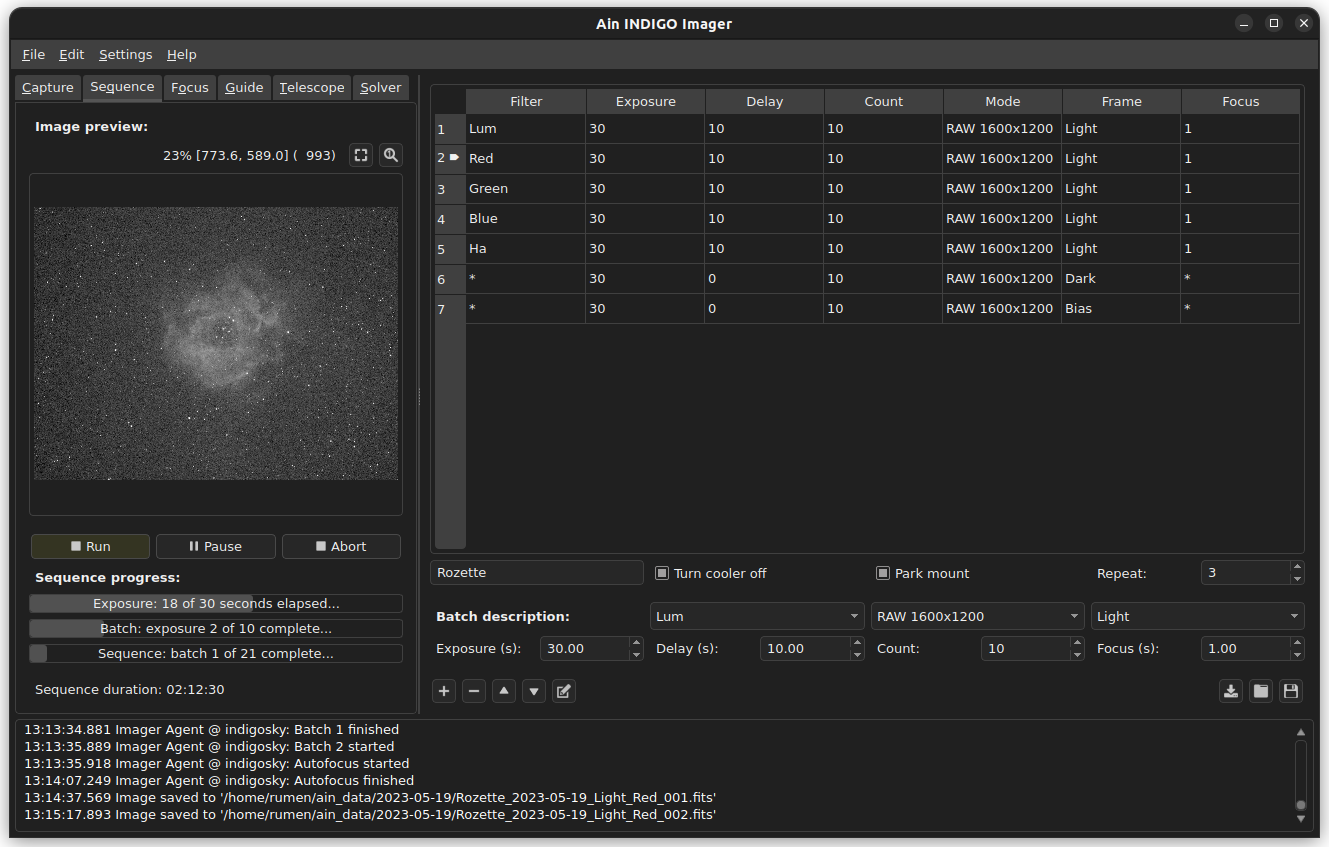
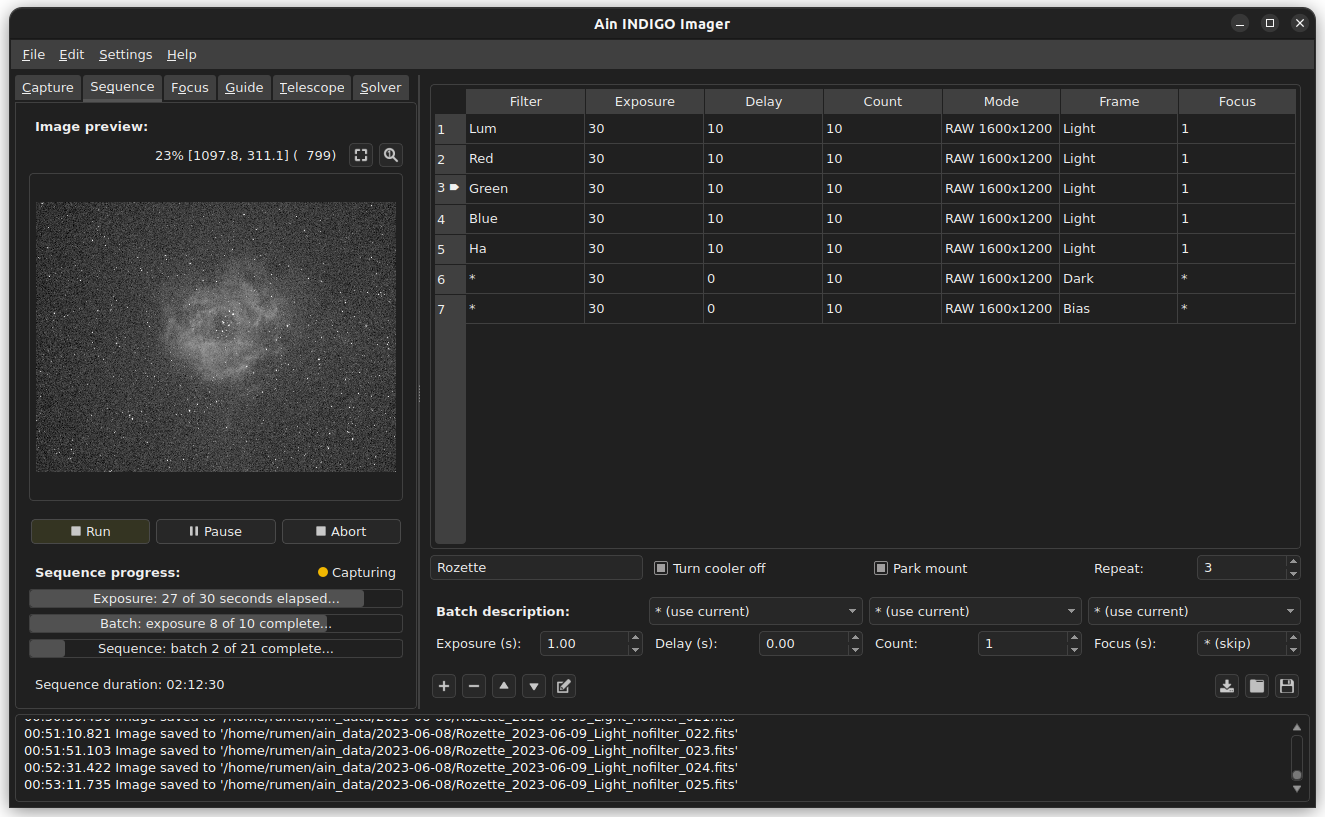
ain_users_guide update

diff --git a/ain_users_guide/ain_users_guide.md b/ain_users_guide/ain_users_guide.md
@@ -1,5 +1,5 @@
 # Ain INDIGO Imager - Users Guide
-Revision: 30.05.2023 (draft)
+Revision: 09.06.2023 (draft)
 
 Author: **Rumen G.Bogdanovski**
 
@@ -229,7 +229,7 @@ The running sequence can be paused with the **Pause** button and resumed later. 
 
 ![](images/sequence_progress.png)
 
-Progress can be monitored using the three progress bars shown above. The first one shows the elapsed time of each exposure. The second one shows the completed exposures in the current batch. And the third one shows the completed batches in the current sequence.
+Progress can be monitored using the three progress bars and the operation indicator as shown above. The first progress bar shows the elapsed time of each exposure. The second one shows the completed exposures in the current batch. And the third one shows the completed batches in the current sequence. The operation indicator shows the operation in progress like *Focusing*, *Capturing*, *Changing filter* etc.
 
 **Sequence duration** shows approximately how long the current sequence will take to complete in HH:MM:SS. Please note that this value is approximate as some operations like image download, filter change and focusing are unpredictable.
 
